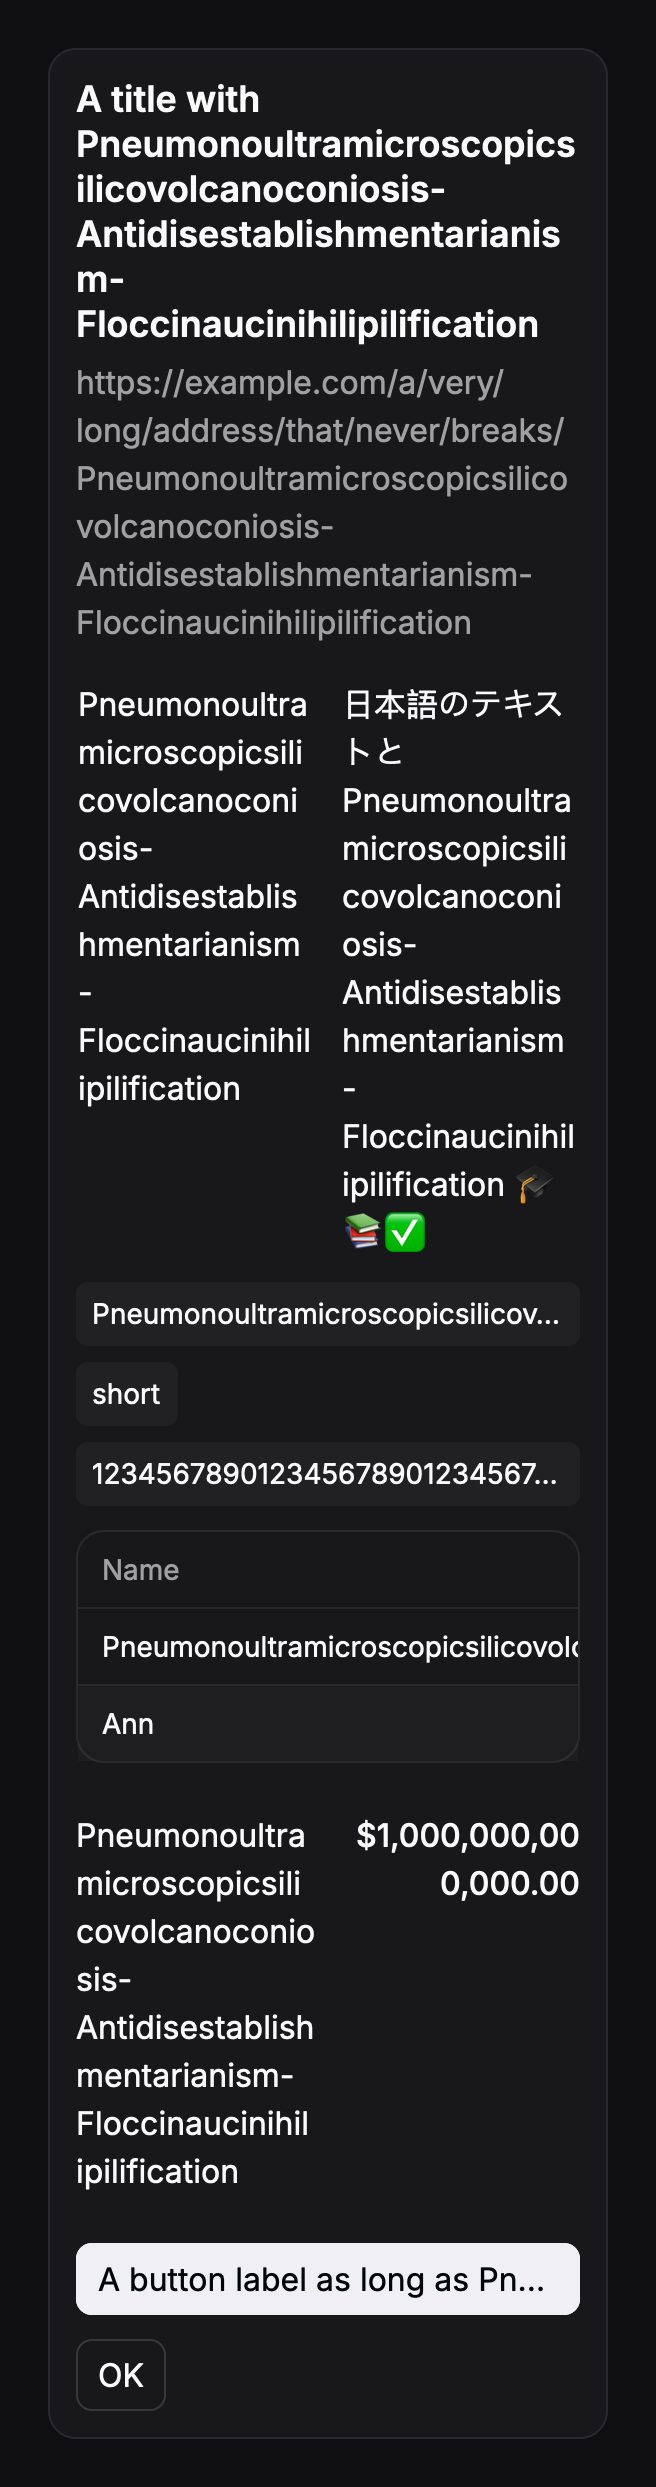
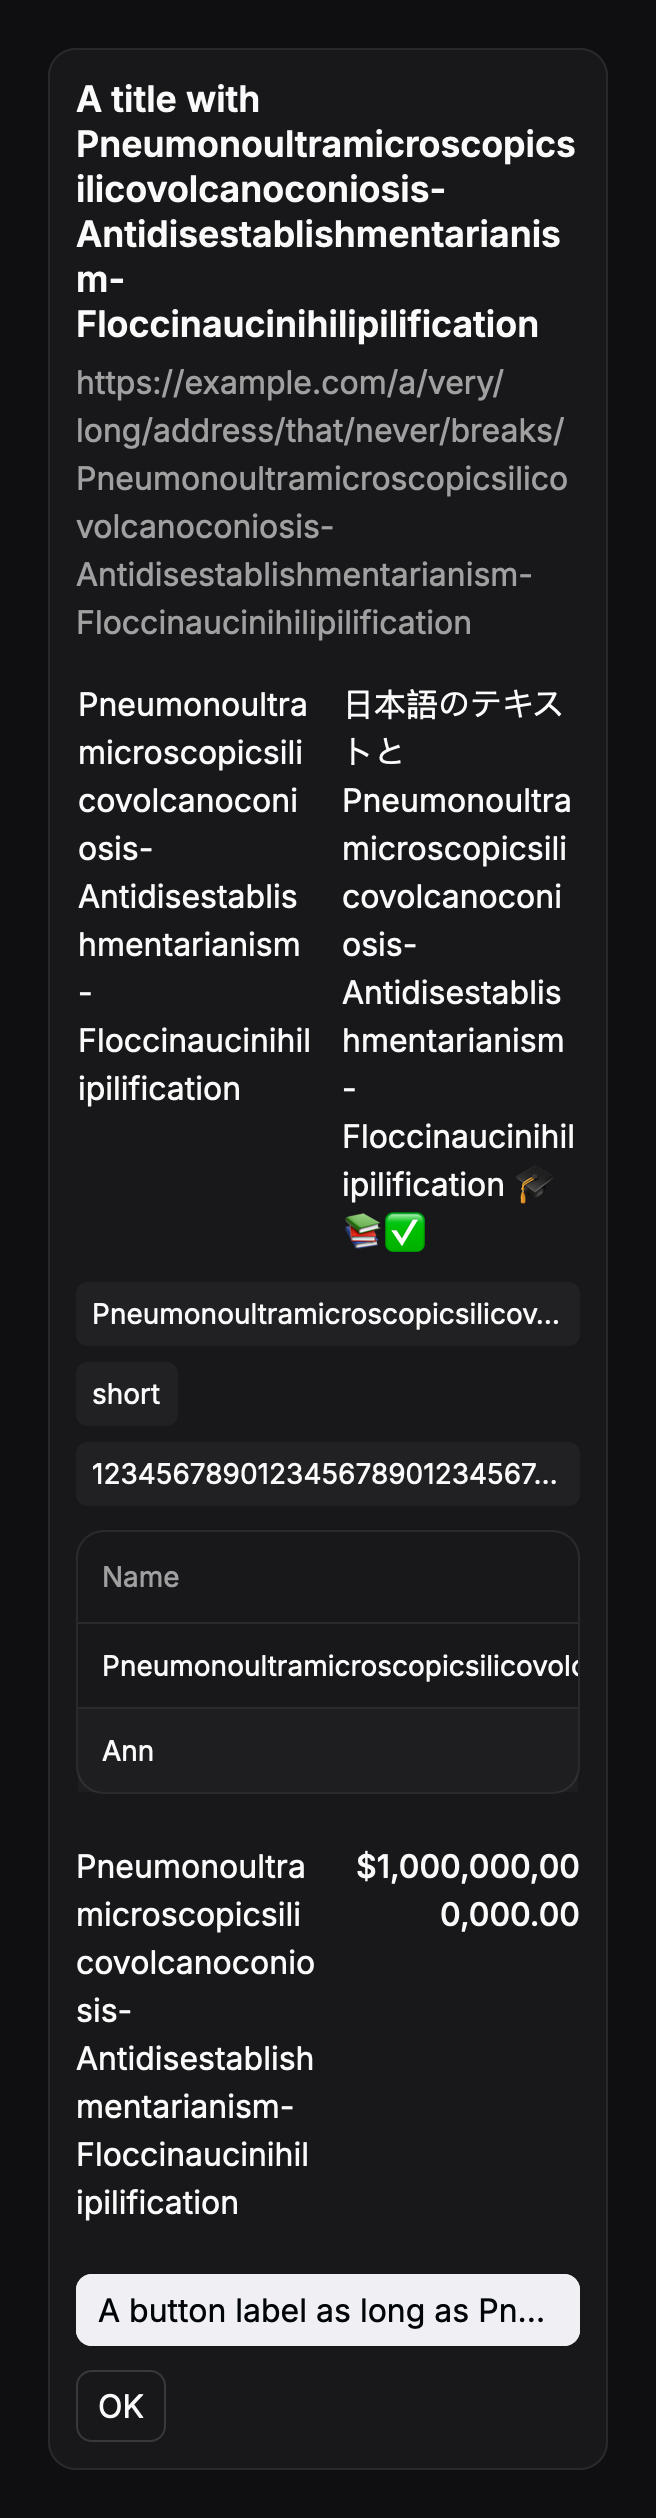
fix: pad table cells and set their text as the web does
Body rows were about 38 CSS px against the web's 46. OpenUI's table
pads every cell 12px (--openui-space-m) and sets its text at 14px with
a 1.5 line height; the cards used 10px and the label leading. Cells
now take the theme's cell spacing and body leading, in plain and
editable tables alike.

diff --git a/gpui-chatwidgets/src/draw/table.rs b/gpui-chatwidgets/src/draw/table.rs
@@ -69,7 +69,7 @@ impl Draw<'_, '_> {
                 .flex_shrink_0()
                 .min_w(d.px(widths[c]))
                 .px(d.px(pad))
-                .py(d.px(10.))
+                .py(d.px(pad))
                 .flex()
                 .flex_row()
                 .items_center()
@@ -84,7 +84,7 @@ impl Draw<'_, '_> {
                 d.border_b_1().border_color(t.colors.line)
             });
         for (c, col) in table.columns.iter().enumerate() {
-            head = head.child(cell(self, c).child(self.line(
+            head = head.child(cell(self, c).child(self.body_line(
                 col.label.clone(),
                 font,
                 t.colors.text_muted,
@@ -228,8 +228,8 @@ impl Draw<'_, '_> {
             head = head.child(
                 cell(self, c)
                     .px(self.px(pad))
-                    .py(self.px(10.))
-                    .child(self.line(label, font, t.colors.text_muted, self.regular())),
+                    .py(self.px(pad))
+                    .child(self.body_line(label, font, t.colors.text_muted, self.regular())),
             );
         }
         let mut body = div().w_full().flex().flex_col().child(head);
@@ -294,13 +294,13 @@ impl Draw<'_, '_> {
                             .min_w_0()
                             .justify_start()
                             .px(self.px(pad))
-                            .py(self.px(10.))
+                            .py(self.px(pad))
                             .hover(|s| s.bg(t.colors.highlight))
                             .debug_selector({
                                 let sel = self.selector(&format!("cell:{r}:{c}"));
                                 move || sel
                             })
-                            .child(self.line(
+                            .child(self.body_line(
                                 shown,
                                 font,
                                 if text.is_empty() {

diff --git a/gpui-chatwidgets/src/draw/mod.rs b/gpui-chatwidgets/src/draw/mod.rs
@@ -270,6 +270,18 @@ impl Draw<'_, '_> {
             .child(s.into())
     }
 
+    /// One line at body leading (1.5 by default), as the web's table cells set their text.
+    pub fn body_line(
+        &self,
+        s: impl Into<SharedString>,
+        size: f32,
+        color: Hsla,
+        weight: f32,
+    ) -> Div {
+        self.line(s, size, color, weight)
+            .line_height(self.px(size * self.t.text.body_leading))
+    }
+
     /// Up to `n` lines, then an ellipsis.
     pub fn clamp(
         &self,
